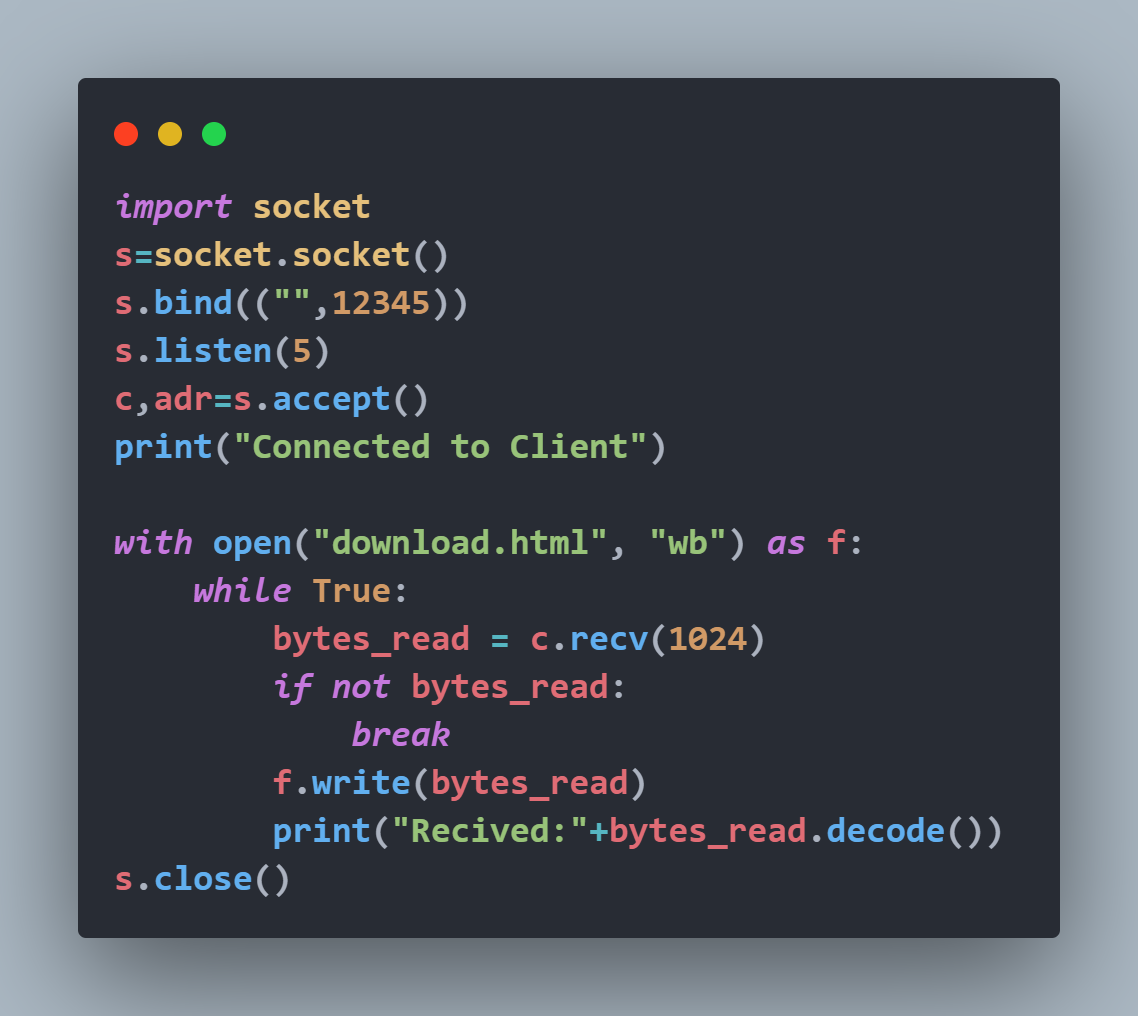
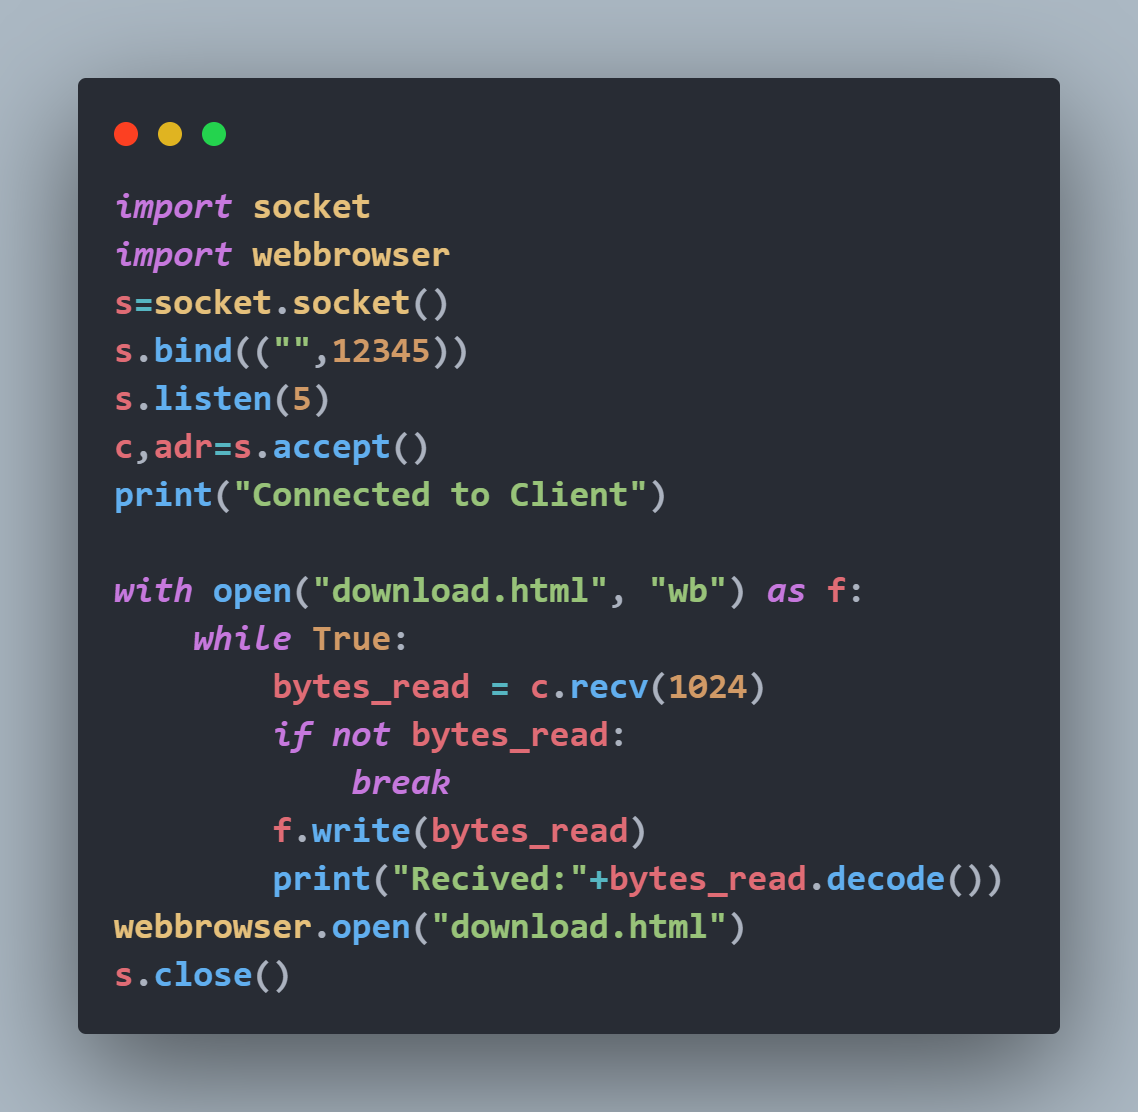
webbroser

diff --git a/Python/HTTP/server.py b/Python/HTTP/server.py
@@ -1,4 +1,5 @@
 import socket 
+import webbrowser
 s=socket.socket()
 s.bind(("",12345))
 s.listen(5)
@@ -12,4 +13,5 @@ with open("download.html", "wb") as f:
             break
         f.write(bytes_read)
         print("Recived:"+bytes_read.decode())
+webbrowser.open("download.html")
 s.close()

diff --git a/Python/HTTP/readme.md b/Python/HTTP/readme.md
@@ -12,3 +12,4 @@ Client.py
 Output
 </h1>
 <img src="output.png">
+<img src="output2.png">
